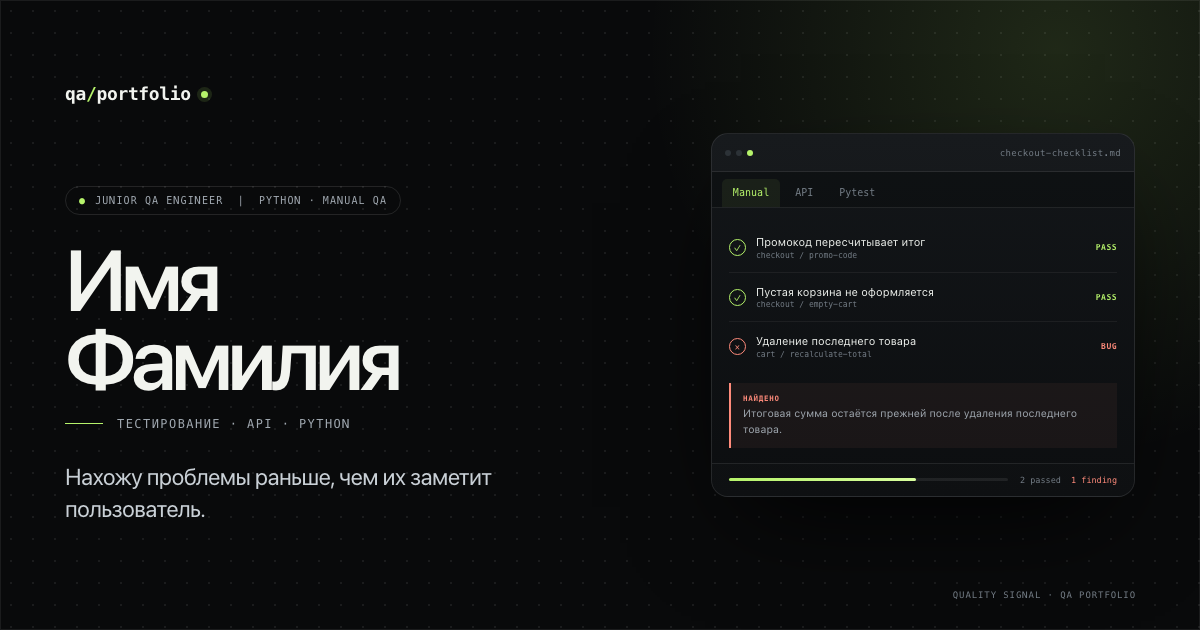
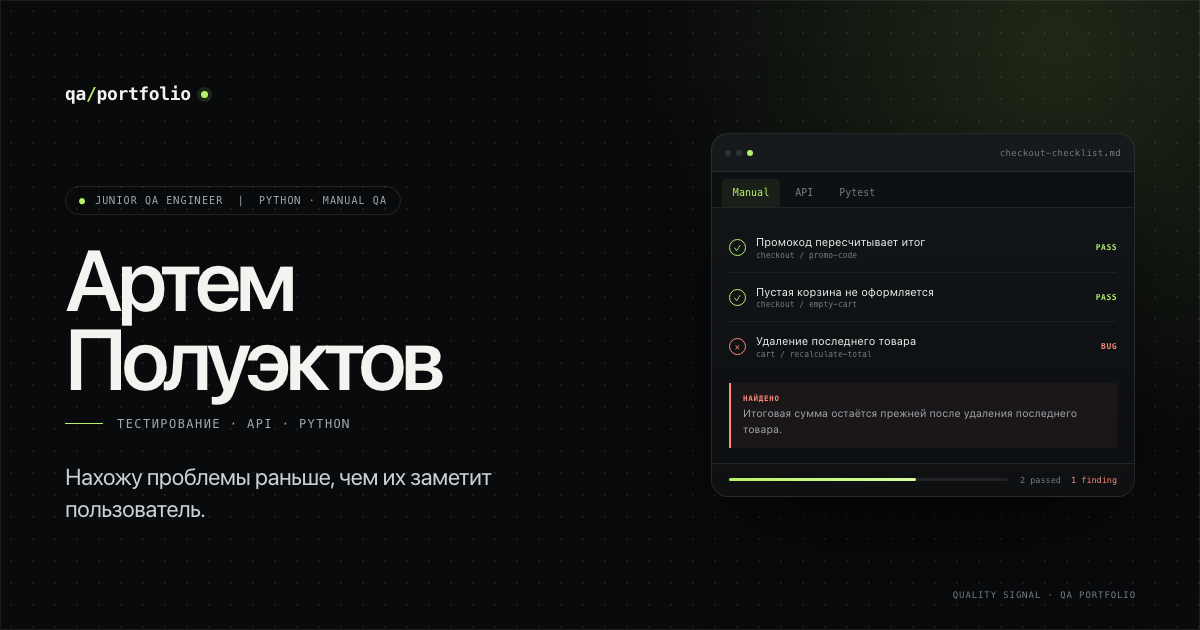
feat: add personal name and contact links

Changed region(s): [[0.0308, 0.3921, 0.37, 0.6333]]

diff --git a/index.html b/index.html
@@ -6,44 +6,59 @@
     <meta name="theme-color" content="#090a0b" />
     <meta name="color-scheme" content="dark" />
 
-    <title>Имя Фамилия — Junior QA Engineer</title>
+    <title>Артем Полуэктов — Junior QA Engineer</title>
     <meta
       name="description"
       content="Портфолио начинающего QA Engineer: ручное тестирование, API, Python и первые шаги в автоматизации. Учебные кейсы, навыки и контакты."
     />
-    <meta name="author" content="Имя Фамилия" />
+    <meta name="author" content="Артем Полуэктов" />
     <meta name="robots" content="index, follow" />
+    <link rel="canonical" href="https://kraken244.github.io/qa-portfolio/" />
 
     <link rel="icon" type="image/svg+xml" href="/favicon.svg" />
     <link rel="apple-touch-icon" href="/favicon.svg" />
 
-    <!--
-      После публикации замените относительные адреса на полные:
-      og:url, og:image, twitter:image, canonical.
-    -->
     <meta property="og:type" content="profile" />
     <meta property="og:locale" content="ru_RU" />
     <meta property="og:site_name" content="QA Portfolio" />
-    <meta property="og:title" content="Имя Фамилия — Junior QA Engineer" />
+    <meta property="og:url" content="https://kraken244.github.io/qa-portfolio/" />
+    <meta property="og:title" content="Артем Полуэктов — Junior QA Engineer" />
     <meta
       property="og:description"
       content="Ручное тестирование, API и Python. Учебные кейсы начинающего QA Engineer."
     />
-    <meta property="og:image" content="./og-image.png" />
+    <meta
+      property="og:image"
+      content="https://kraken244.github.io/qa-portfolio/og-image.png"
+    />
+    <meta property="og:image:width" content="1200" />
+    <meta property="og:image:height" content="630" />
+    <meta
+      property="og:image:alt"
+      content="Артем Полуэктов — Junior QA Engineer. Портфолио."
+    />
     <meta name="twitter:card" content="summary_large_image" />
-    <meta name="twitter:title" content="Имя Фамилия — Junior QA Engineer" />
+    <meta name="twitter:title" content="Артем Полуэктов — Junior QA Engineer" />
     <meta
       name="twitter:description"
       content="Ручное тестирование, API и Python. Учебные кейсы начинающего QA Engineer."
     />
-    <meta name="twitter:image" content="./og-image.png" />
+    <meta
+      name="twitter:image"
+      content="https://kraken244.github.io/qa-portfolio/og-image.png"
+    />
 
     <script type="application/ld+json">
       {
         "@context": "https://schema.org",
         "@type": "Person",
-        "name": "Имя Фамилия",
+        "name": "Артем Полуэктов",
         "jobTitle": "Junior QA Engineer",
+        "url": "https://kraken244.github.io/qa-portfolio/",
+        "sameAs": [
+          "https://github.com/Kraken244",
+          "https://t.me/Prostoartemivse"
+        ],
         "description": "Начинающий QA Engineer, изучает Python и автоматизацию тестирования.",
         "knowsAbout": [
           "Manual QA",
@@ -63,9 +78,9 @@
     <div id="root"></div>
     <noscript>
       <div style="max-width: 640px; margin: 80px auto; padding: 0 24px; font-family: sans-serif; color: #f2f4ef; background: #090a0b; line-height: 1.6">
-        <h1 style="font-size: 28px">Имя Фамилия — Junior QA Engineer</h1>
+        <h1 style="font-size: 28px">Артем Полуэктов — Junior QA Engineer</h1>
         <p>Для отображения интерактивного портфолио включите JavaScript.</p>
-        <p>Связаться: <a style="color: #b6f36b" href="mailto:hello@example.com">hello@example.com</a></p>
+        <p>Связаться: <a style="color: #b6f36b" href="https://t.me/Prostoartemivse">@Prostoartemivse</a></p>
       </div>
     </noscript>
     <script type="module" src="/src/main.tsx"></script>

diff --git a/src/content/profile.ts b/src/content/profile.ts
@@ -5,8 +5,8 @@ import type { ContactLink, NavItem, Profile } from '../types/content'
  * Замените заглушки на свои значения — компоненты менять не нужно.
  */
 export const profile: Profile = {
-  name: 'Имя Фамилия',
-  shortName: 'ИФ',
+  name: 'Артем Полуэктов',
+  shortName: 'АП',
   role: 'Junior QA Engineer',
   focus: 'Python · Manual QA · Automation',
   headline: 'Нахожу проблемы раньше, чем их заметит пользователь.',
@@ -16,13 +16,13 @@ export const profile: Profile = {
   email: 'hello@example.com',
   github: {
     label: 'GitHub',
-    href: 'https://github.com/username',
-    handle: '@username',
+    href: 'https://github.com/Kraken244',
+    handle: '@Kraken244',
   },
   telegram: {
     label: 'Telegram',
-    href: 'https://t.me/username',
-    handle: '@username',
+    href: 'https://t.me/Prostoartemivse',
+    handle: '@Prostoartemivse',
   },
 }
 

diff --git a/README.md b/README.md
@@ -48,12 +48,12 @@ Vite покажет адрес локального сервера, обычно
 
 ### Что заменить перед публикацией
 
-1. **Профиль** — `profile.ts`: имя, email, GitHub, Telegram. Сейчас там заглушки `Имя Фамилия`, `hello@example.com`, `@username`.
+1. **Email** — `profile.ts`: остался placeholder `hello@example.com`. Имя, GitHub и Telegram уже заполнены.
 2. **Обучение и опыт** — `about.ts`: два блока помечены как `добавить`. Замените их на реальные данные или удалите из массива `facts`.
 3. **Проекты** — `projects.ts`: замените демо-кейсы. Если у проекта есть репозиторий, добавьте `repoUrl` — кнопка в модальном окне станет активной.
-4. **SEO** — `index.html`: title, description, Open Graph, JSON-LD, canonical. После появления домена добавьте абсолютные URL для `og:image` и `og:url`.
+4. **SEO** — `index.html`: title, description, Open Graph, JSON-LD и canonical. Абсолютные URL уже настроены для GitHub Pages; при смене домена обновите их.
 5. **OG-изображение** — `public/og-image.png` (1200×630). Замените, если изменилось имя или позиционирование.
-6. **Домен** — добавьте `sitemap.xml` и строку `Sitemap` в `public/robots.txt` после публикации.
+6. **Домен** — при переезде на свой домен обновите `canonical`, `og:url`, `og:image` и `public/sitemap.xml`.
 
 Все демо-проекты явно помечены бейджем «Демо-кейс» и не выдаются за реальный опыт.
 
@@ -138,4 +138,4 @@ gh repo create qa-portfolio --public --source=. --remote=origin --push
 
 ## Контакты в коде
 
-Все реальные контакты пока заменены заглушками. Это сделано намеренно: сайт не приписывает владельцу несуществующие профили, проекты или достижения.
+Имя, GitHub и Telegram уже заполнены реальными данными. Email пока остаётся заглушкой `hello@example.com` — замените его в `src/content/profile.ts`, когда будет готов публичный адрес.
